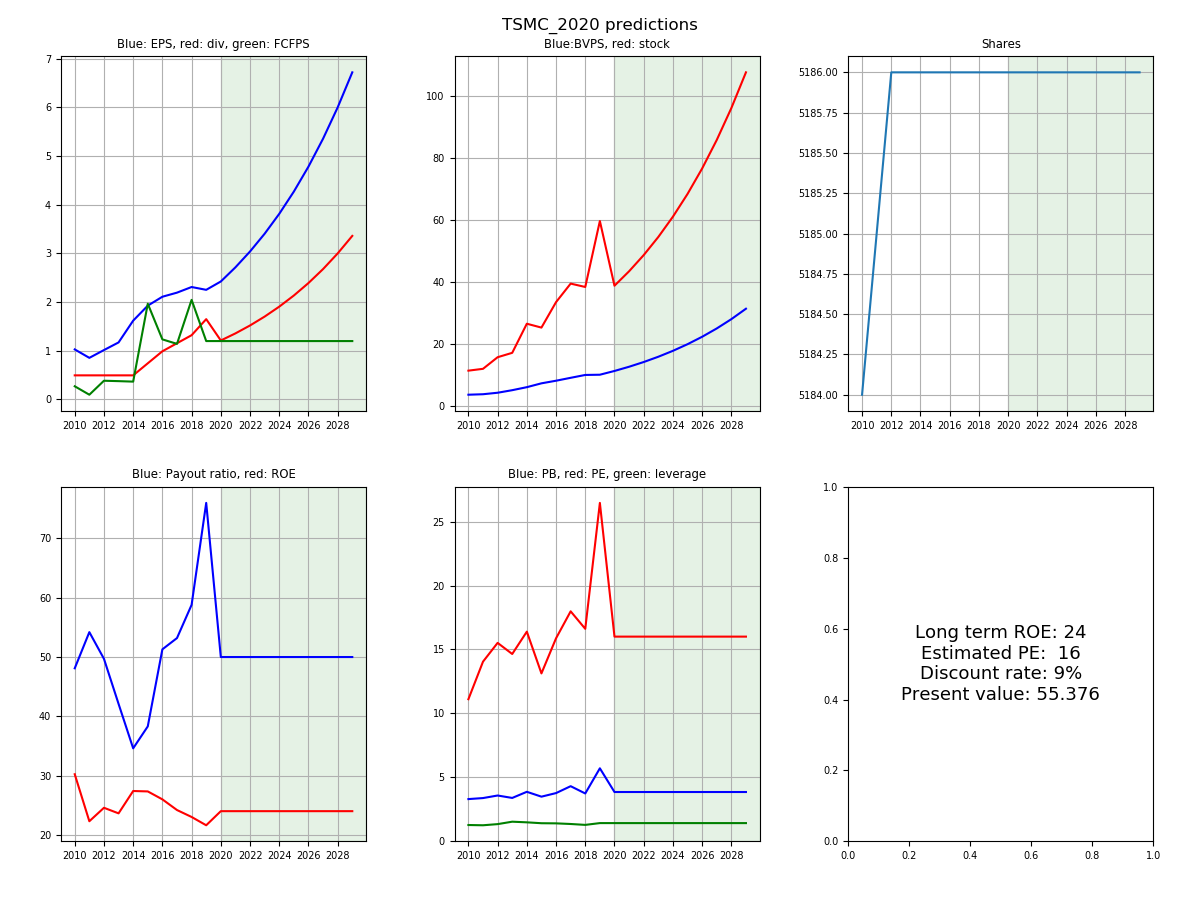
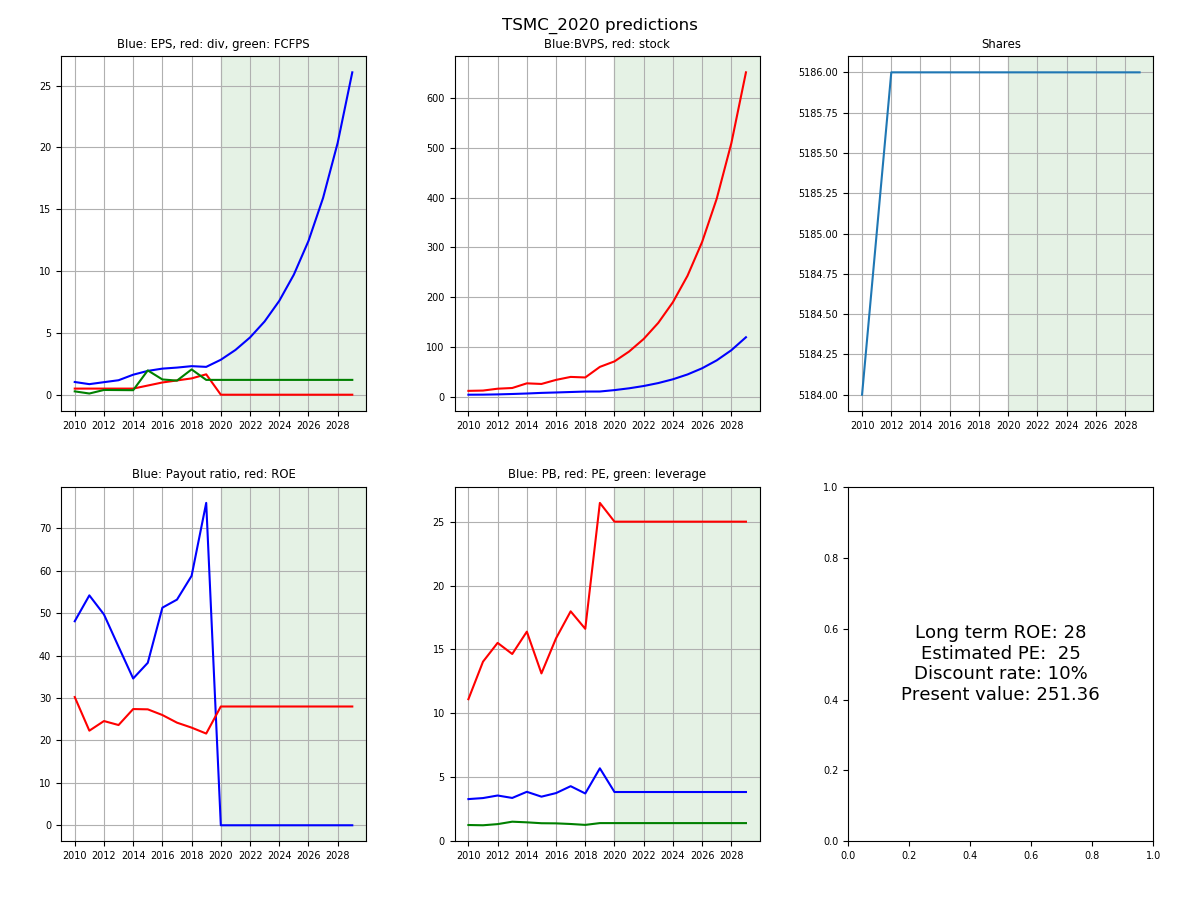
added hawpar data

diff --git a/stock_screener.py b/stock_screener.py
@@ -9,13 +9,13 @@ import main_functions_wrapper as main
 =========Key in parameters here==========
 '''
 currentprice = 1400
-estimated_roe = 15
+estimated_roe = 28
 estimated_pe = 25
 estimated_payout_ratio = 0
 dcf_rate = 10
-div_taxrate = 30
-years2project = 5
-sampletitle = 'Google_2020'
+div_taxrate = 21
+years2project = 10
+sampletitle = 'HAWPAR_2020'
 filename = sampletitle+'_condensed.csv'
 directory = 'sample_data/'
 '''
@@ -25,7 +25,7 @@ directory = 'sample_data/'
 =========Key in plot parameters==========
 '''
 plot_1_prediction = True
-plot_sweeps = True
+plot_sweeps = False
 bollinger_compensation = True
 '''
 =========END of plot parameters=========

diff --git a/extract_stock_data.py b/extract_stock_data.py
@@ -20,6 +20,7 @@ Created on Thu Jul 19 20:57:00 2018
 import csv
 import re
 import matplotlib.pyplot as plt
+import math
 
 def read_csv2data(data_directory, filename):
     ''' 
@@ -95,7 +96,7 @@ def convert2float(text):
     try:
         return float(text)
     except Exception:
-        return 0
+        return math.nan
 
 def fmt_year_list(yearlist):
     ''' 

diff --git a/fom_estimation.py b/fom_estimation.py
@@ -34,6 +34,7 @@ def analyze_metric(data, name=''):
         name_std: st dev of list
         }
     '''
+    
     data_min = np.min(data)
     data_max = np.max(data)
     data_avg = np.average(data)
